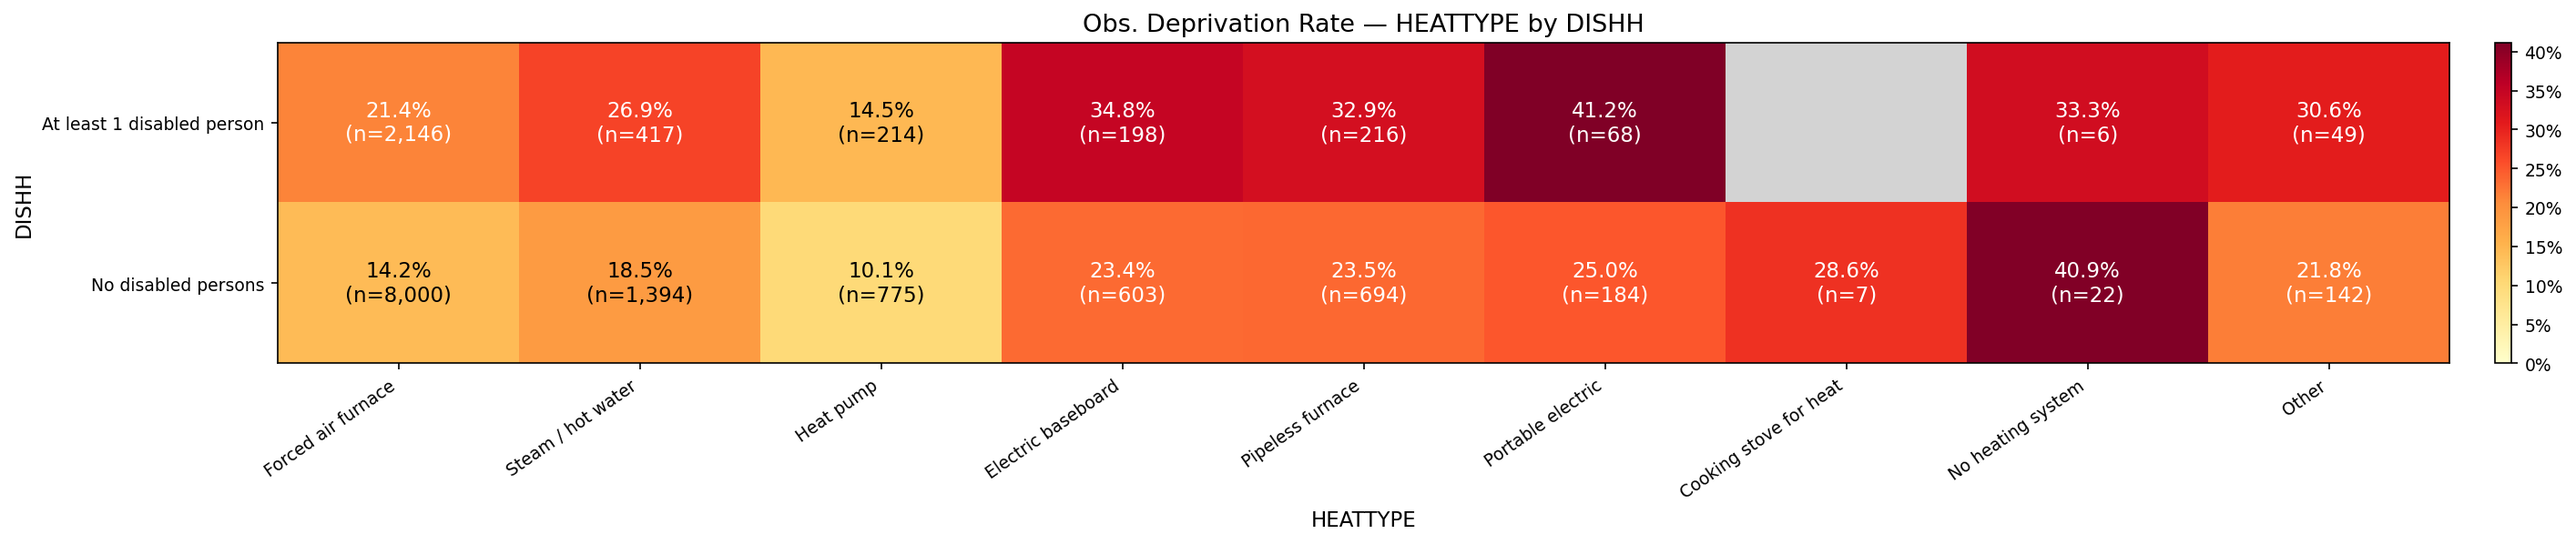
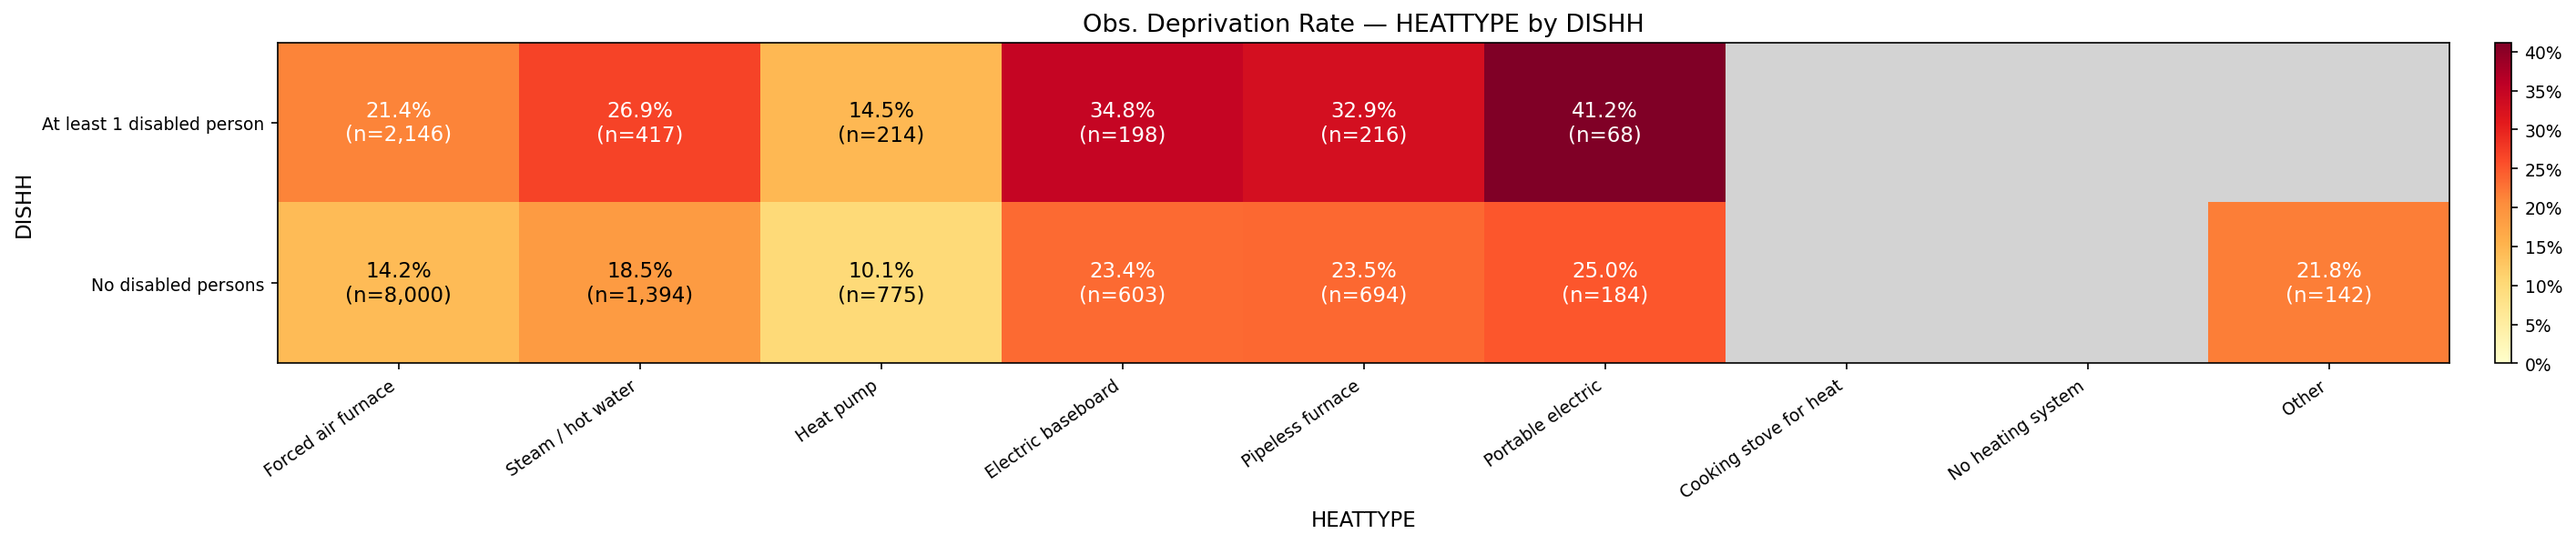
Expand heterogeneity analysis

Changed region(s): [[0.6532, 0.0602, 0.9643, 0.6923]]

diff --git a/code/04_heterogeneity_analysis/00_heterogeneity_utils.py b/code/04_heterogeneity_analysis/00_heterogeneity_utils.py
@@ -56,11 +56,20 @@ from analysis_functions import load_model, prepare_cat_cols, filter_temp_vars, g
 # ---------------------------------------------------------------------------
 
 # Conditioning variables for Step 2 — edit this list to add/remove variables
-CONDITIONING_VARS: list[str] = ["WALLCRACK", "ACPRIMARY", "FUSEBLOW", "ROACH", "DISHH", "OMB13CBSA"]
+CONDITIONING_VARS: list[str] = ["WALLCRACK", "ACPRIMARY", "FUSEBLOW", "ROACH", "DISHH", "OMB13CBSA", "income_quintile"]
 
 # CBSA conditioning produces a single heatmap rather than per-value density plots
-CBSA_COL        = "OMB13CBSA"
-CBSA_MIN_N_CELL = 50       # cells with fewer observations are grayed out in heatmap
+CBSA_COL    = "OMB13CBSA"
+
+# Income — continuous (HINCP), binned into quintiles for both grouping and conditioning.
+# Binning happens once in load_df() so the column is available everywhere.
+INCOME_COL              = "HINCP"
+INCOME_GROUP_COL        = "income_quintile"
+INCOME_QUINTILE_LABELS: list[str] = ["1_Q1", "2_Q2", "3_Q3", "4_Q4", "5_Q5"]
+
+# Applies to every conditioning-variable heatmap: cells with fewer observations
+# than this are grayed out, regardless of which conditioning variable produced them
+MIN_N_CELL  = 50
 
 # Default file paths (relative to project root — run scripts from there)
 DEFAULT_MODEL_PATH    = "data/processed/models/current_climate_xgboost_no_cbsa_with_weights_calibrated.pkl"
@@ -113,18 +122,10 @@ LABEL_MAPS: dict[str, dict] = {
         9: "Pacific",
     },
     "ACPRIMARY": {
-        1: "Electric central AC",
-        2: "Gas central AC",
-        3: "LP gas central AC",
-        4: "Other fuel central AC",
-        5: "1 room unit",
-        6: "2 room units",
-        7: "3 room units",
-        8: "4 room units",
-        9: "5 room units",
-        10: "6 room units",
-        11: "7+ room units",
-        12: "No AC",
+        1: "Central AC",
+        2: "Room AC",
+        3: "No AC",
+        999: "Other/Unknown",
     },
     "FUSEBLOW": {
         1: "1 blown (last 3 months)",
@@ -174,6 +175,13 @@ LABEL_MAPS: dict[str, dict] = {
         "3_50to64": "50–64",
         "4_65plus": "65+",
     },
+    "income_quintile": {
+        "1_Q1": "Q1 (lowest income)",
+        "2_Q2": "Q2",
+        "3_Q3": "Q3",
+        "4_Q4": "Q4",
+        "5_Q5": "Q5 (highest income)",
+    },
 }
 
 
@@ -197,9 +205,20 @@ def load_df(curr_clim_path: str = DEFAULT_CURR_CLM_PATH) -> pl.DataFrame:
 
     Use ``load_data()`` instead when you also need predicted probabilities
     (``pred_prob``) or SHAP values.
+
+    ``income_quintile`` (``HINCP`` cut into quintiles ``1_Q1``…``5_Q5``) is
+    attached here too, so it's available everywhere as both a grouping
+    variable (see ``income.py``) and a Step 2 conditioning variable (see
+    ``CONDITIONING_VARS``).
     """
     print("Reading current-climate CSV …")
-    return pl.read_csv(curr_clim_path)
+    df = pl.read_csv(curr_clim_path)
+    df = df.with_columns(
+        pl.col(INCOME_COL).qcut(5, labels=INCOME_QUINTILE_LABELS)
+        .cast(pl.Utf8)
+        .alias(INCOME_GROUP_COL)
+    )
+    return df
 
 
 def load_data(
@@ -412,7 +431,6 @@ def step2_true_outcome(
         cond_out = os.path.join(output_dir, group_col, "step2", cond_var)
         os.makedirs(cond_out, exist_ok=True)
 
-        min_n    = CBSA_MIN_N_CELL if cond_var == CBSA_COL else 5
         out_path = os.path.join(cond_out, f"{cond_var}_observed_heatmap.png")
         _heatmap(
             df=df,
@@ -423,7 +441,7 @@ def step2_true_outcome(
             out_path=out_path,
             group_label_map=lmap,
             cond_label_map=LABEL_MAPS.get(cond_var),
-            min_n_cell=min_n,
+            min_n_cell=MIN_N_CELL,
         )
         print(f"    → {out_path}")
 
@@ -441,7 +459,7 @@ def _heatmap(
     out_path: str,
     group_label_map: dict | None = None,
     cond_label_map: dict | None = None,
-    min_n_cell: int = 5,
+    min_n_cell: int = MIN_N_CELL,
 ) -> None:
     """Heatmap of mean value_col: cond_col strata (rows) × group_col subgroups (cols).
 

diff --git a/code/04_heterogeneity_analysis/000_run_all.py b/code/04_heterogeneity_analysis/000_run_all.py
@@ -31,10 +31,12 @@ df, X_pd, model = load_data()
 # ---------------------------------------------------------------------------
 # Simple dimensions — single call each
 # ---------------------------------------------------------------------------
-run_heterogeneity("HHRACE",   df=df, X_pd=X_pd, model=model)
-run_heterogeneity("TENURE",   df=df, X_pd=X_pd, model=model)
-run_heterogeneity("DIVISION", df=df, X_pd=X_pd, model=model)
-run_heterogeneity("DISHH",    df=df, X_pd=X_pd, model=model)
+run_heterogeneity("HHRACE",         df=df, X_pd=X_pd, model=model)
+run_heterogeneity("TENURE",         df=df, X_pd=X_pd, model=model)
+run_heterogeneity("DIVISION",       df=df, X_pd=X_pd, model=model)
+run_heterogeneity("DISHH",          df=df, X_pd=X_pd, model=model)
+run_heterogeneity("ACPRIMARY",      df=df, X_pd=X_pd, model=model)
+run_heterogeneity("income_quintile", df=df, X_pd=X_pd, model=model)
 
 # ---------------------------------------------------------------------------
 # Age — bin HHAGE into cohorts first

diff --git a/code/investigate.py b/code/investigate.py
@@ -5,7 +5,8 @@ import pandas as pd
 
 current = pl.read_csv("data/processed/current_climate/basic_ready_for_trees_ahs_climate.csv")
 proj = pl.read_csv("data/processed/projected_climate/02_02_ahs_cmip_2050.csv")
-
+data_path = "data/processed/current_climate/basic_ready_for_trees_ahs_climate.csv"
+ahs_climate = pl.read_csv(data_path)
 
 print("Current temps:")
 current_temp_summary = current[["mintemp", "maxtemp", "avgtemp"]].describe()
@@ -16,3 +17,11 @@ print("Projected temps:")
 proj_temp_summary = proj[["proj_tasmin", "proj_tasmax", "proj_tas"]].describe()
 print(proj_temp_summary)
 proj_temp_summary.write_csv("output/projected_temp_summary.csv")
+
+print("ACPRIMARY")
+acprimary = ahs_climate.select(col("ACPRIMARY").value_counts(sort=True))
+print(acprimary) # 3 = No AC
+
+print("HEATTYPE")
+heattype = ahs_climate.select(col("HEATTYPE").value_counts(sort=True))
+print(heattype) # 3 = No AC

diff --git a/code/04_heterogeneity_analysis/income.py b/code/04_heterogeneity_analysis/income.py
@@ -1,0 +1,22 @@
+"""
+income.py — Heterogeneity analysis by household income quintile (HINCP).
+
+HINCP is continuous, so heterogeneity_utils.load_df() bins it into quintiles
+(income_quintile) before analysis — see CONDITIONING_VARS / LABEL_MAPS there.
+
+Income quintiles (income_quintile):
+  1_Q1 — lowest income quintile
+  2_Q2 — second quintile
+  3_Q3 — third (middle) quintile
+  4_Q4 — fourth quintile
+  5_Q5 — highest income quintile
+
+Run from the project root:
+    python code/04_heterogeneity_analysis/income.py
+"""
+
+import sys
+sys.path.insert(0, "code/04_heterogeneity_analysis")
+from heterogeneity_utils import run_heterogeneity
+
+run_heterogeneity("income_quintile")

diff --git a/code/04_heterogeneity_analysis/acprimary.py b/code/04_heterogeneity_analysis/acprimary.py
@@ -1,0 +1,18 @@
+"""
+acprimary.py — Heterogeneity analysis by primary air conditioning type (ACPRIMARY).
+
+ACPRIMARY codes (collapsed):
+  1 = Central AC
+  2 = Room AC
+  3 = No AC
+  999 = Other/Unknown
+
+Run from the project root:
+    python code/04_heterogeneity_analysis/acprimary.py
+"""
+
+import sys
+sys.path.insert(0, "code/04_heterogeneity_analysis")
+from heterogeneity_utils import run_heterogeneity
+
+run_heterogeneity("ACPRIMARY")
